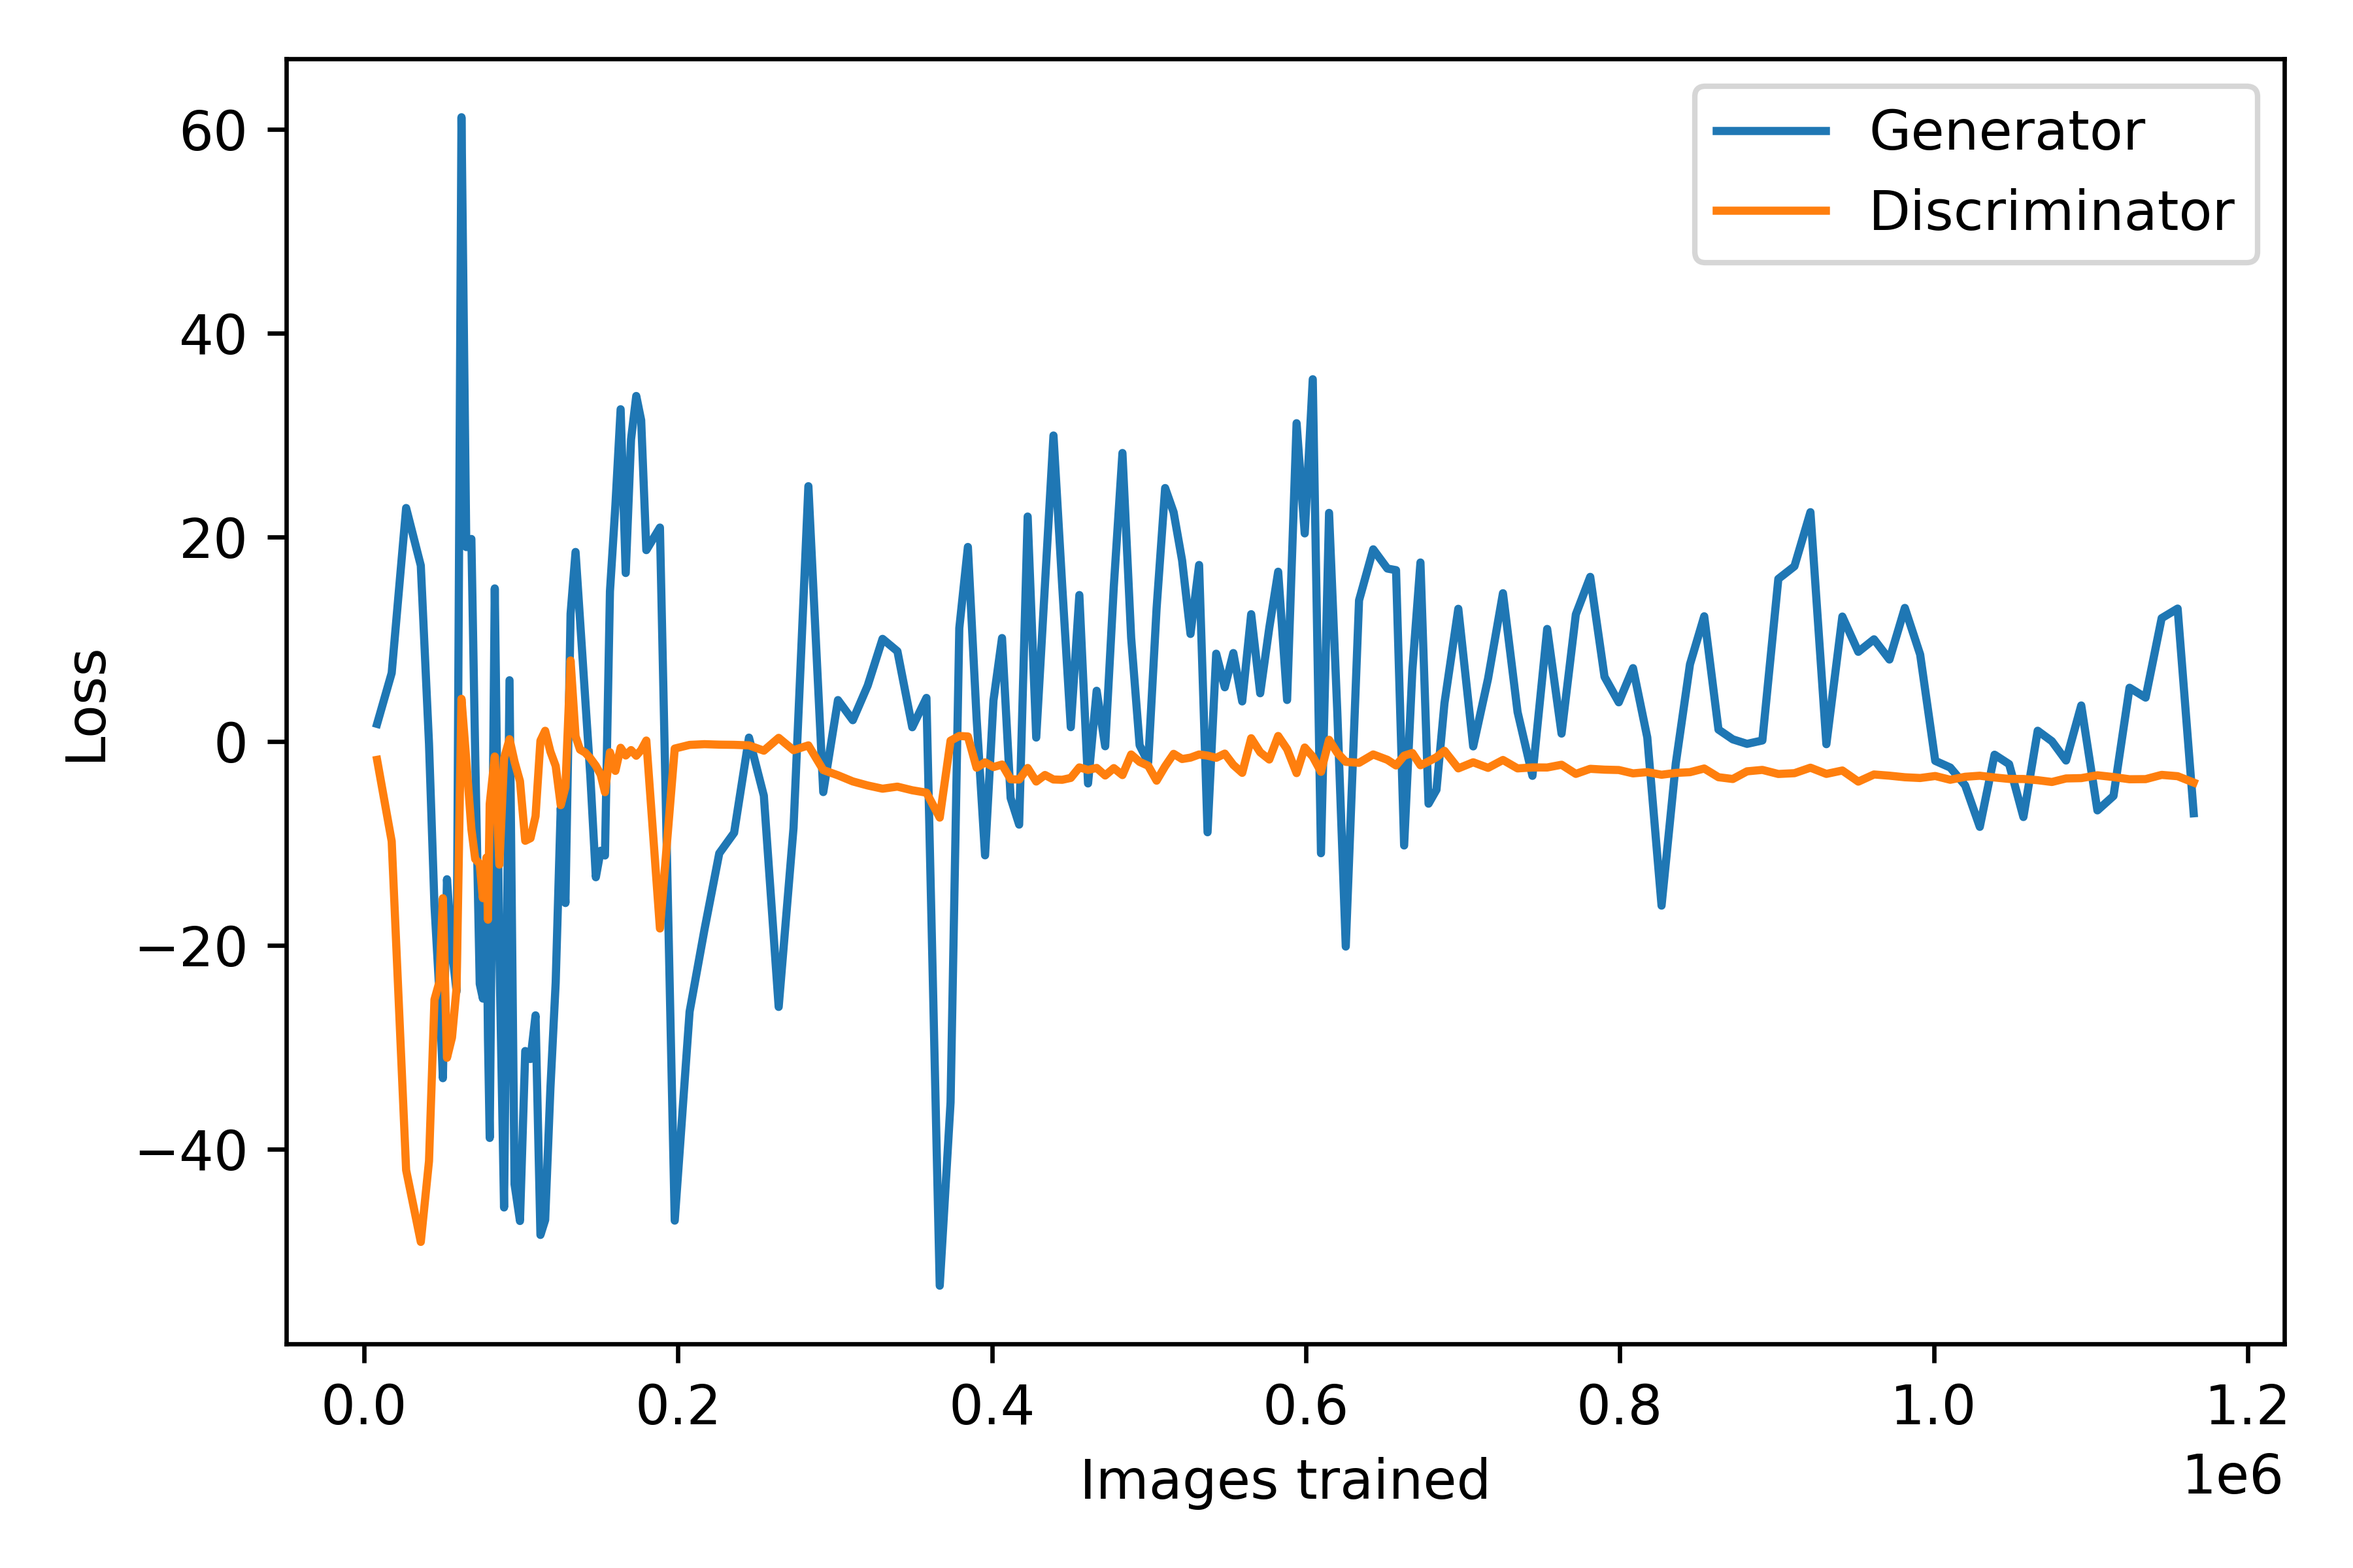
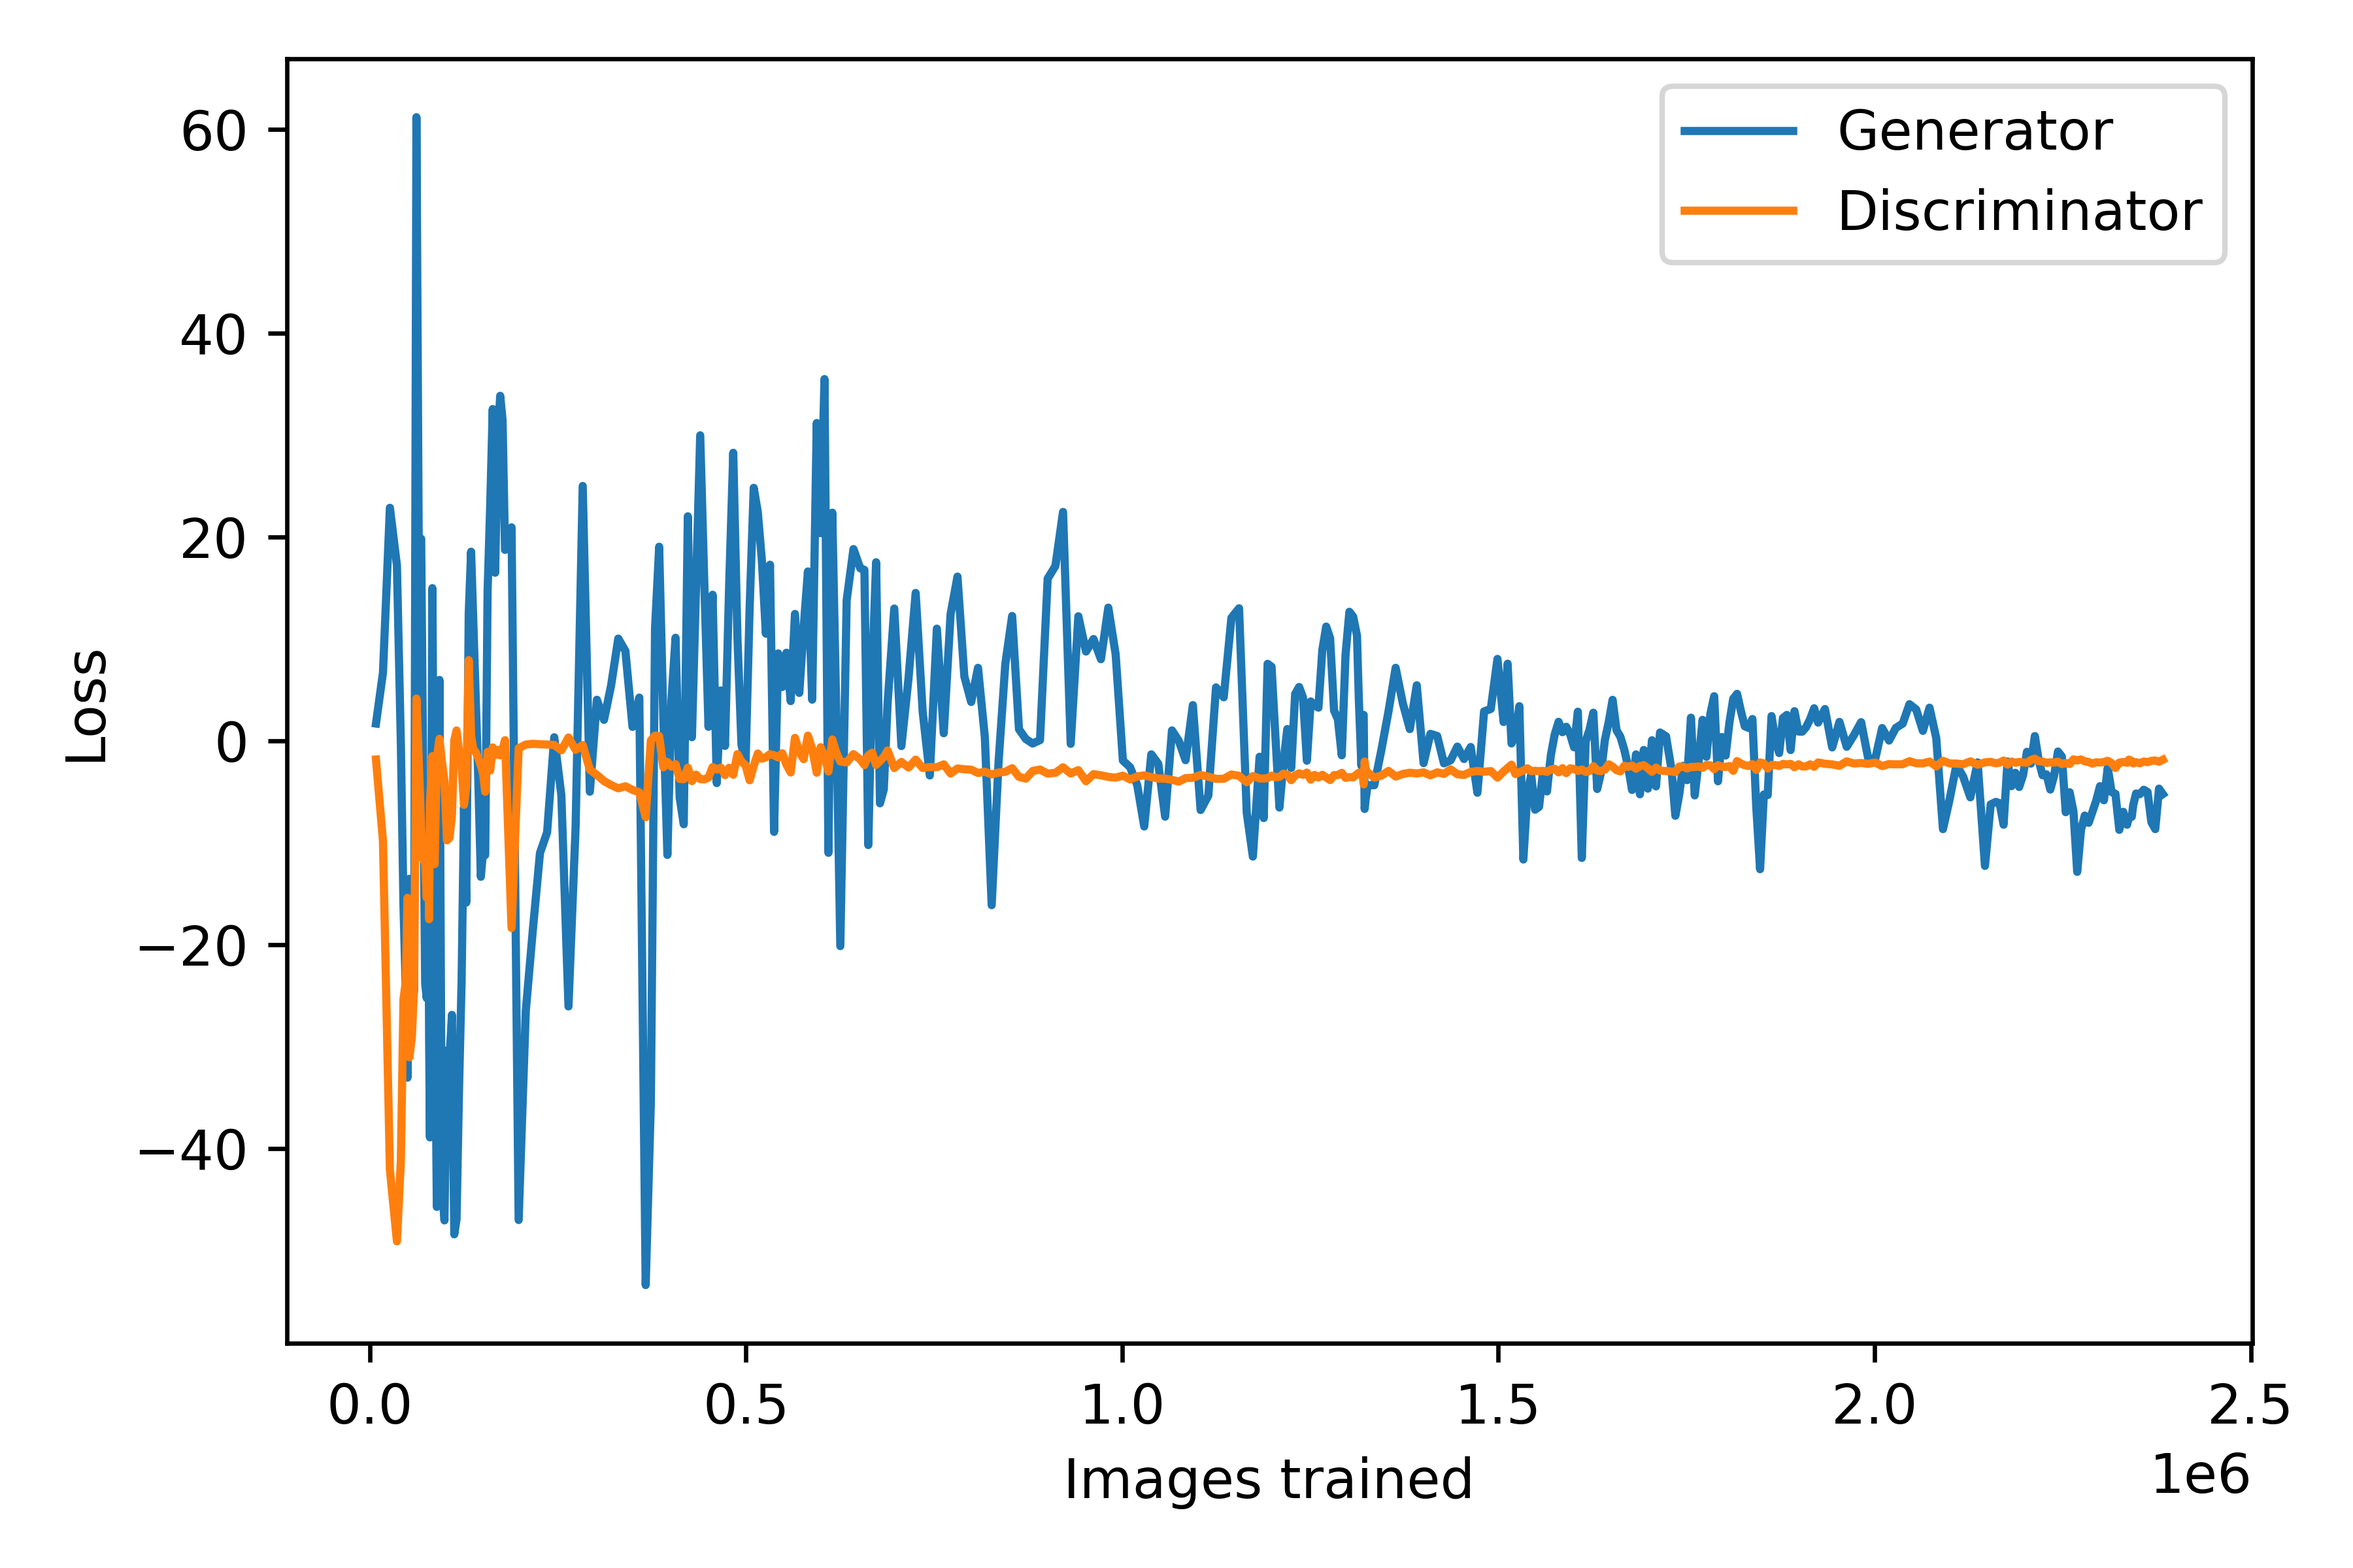
Continued training CelebA

diff --git a/main.py b/main.py
@@ -199,7 +199,7 @@ image_dict = {
 }
 
 dataset = "celeba"
-model_version = 178
+model_version = 383
 log_frequency = 12 * 60  # seconds
 git_log_frequency = 20  # versions
 
